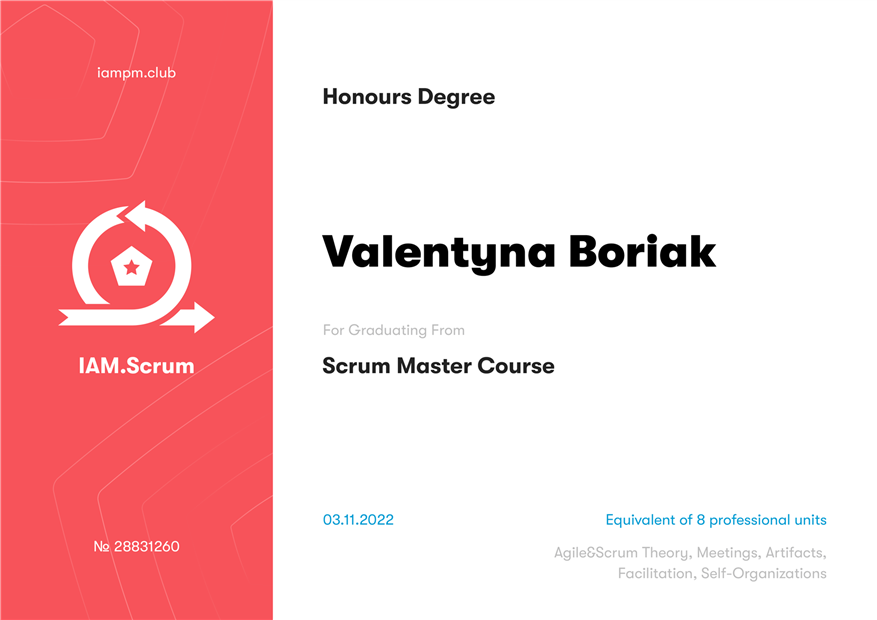
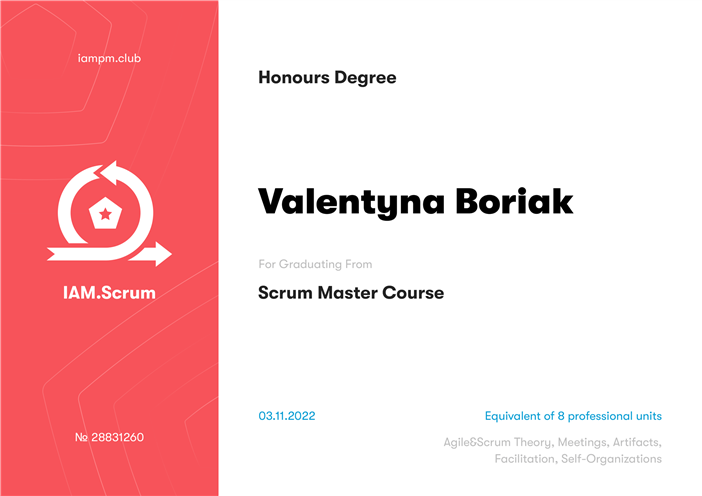
Fix certificates

diff --git a/css/styles.css b/css/styles.css
@@ -65,20 +65,25 @@ p {
   line-height: 1.5;
 }
 
+picture.certificate img {
+  margin: 2% auto auto 6%;
+}
+
+/*how to apply it without a special class for the 1st certificate?*/
+picture.certificate img.first-certificate {
+  margin-top: 0;
+}
+
 .skill-measurement-text {
   color: white;
   font-size: 1.3em;
   margin: 2% auto auto 6%;
 }
 
-picture {
-  margin-left: 5%;
-}
-
 .skill-measurement-85 {
   width: 15em;
   height: 1.2em;
-  background: linear-gradient(to right, #639a88 0 85%, #d9dbf1 85% 100%);
+  background: linear-gradient(to right, #639a88 0 85%, #ffffff 85% 100%);
   margin-left: 6%;
   margin-top: 0.7%;
 }
@@ -86,7 +91,7 @@ picture {
 .skill-measurement-70 {
   width: 15em;
   height: 1.2em;
-  background: linear-gradient(to right, #639a88 0 70%, #d9dbf1 70% 100%);
+  background: linear-gradient(to right, #639a88 0 70%, #ffffff 70% 100%);
   margin-left: 6%;
   margin-top: 0.7%;
 }
@@ -94,7 +99,7 @@ picture {
 .skill-measurement-50 {
   width: 15em;
   height: 1.2em;
-  background: linear-gradient(to right, #639a88 0 50%, #d9dbf1 50% 100%);
+  background: linear-gradient(to right, #639a88 0 50%, #ffffff 50% 100%);
   margin-left: 6%;
   margin-top: 0.7%;
 }
@@ -102,7 +107,7 @@ picture {
 .skill-measurement-30 {
   width: 15em;
   height: 1.2em;
-  background: linear-gradient(to right, #639a88 0 30%, #d9dbf1 30% 100%);
+  background: linear-gradient(to right, #639a88 0 30%, #ffffff 30% 100%);
   margin-left: 6%;
   margin-top: 0.7%;
 }

diff --git a/index.html b/index.html
@@ -90,7 +90,7 @@
       </section>
       <section id="certificates">
         <h2>Certificates</h2>
-        <picture id="jira-certificate">
+        <picture id="jira-certificate" class="certificate">
           <source
             media="(min-width:800px)"
             srcset="./images/jira-start-certificate-m.png"
@@ -98,10 +98,11 @@
           <img
             src="./images/jira-start-certificate-s.png"
             alt="IAMPM: Jira start course certificate"
+            class="first-certificate"
           />
         </picture>
         <br />
-        <picture id="scrum-certificate">
+        <picture id="scrum-certificate" class="certificate">
           <source
             media="(min-width:800px)"
             srcset="./images/iam-scrum-certificate-m.png"
@@ -111,7 +112,8 @@
             alt="honour's degree certificate; IAMPM: Scrum Master course"
           />
         </picture>
-        <picture id="marathon-certificate">
+        <br />
+        <picture id="marathon-certificate" class="certificate">
           <source
             media="(min-width:800px)"
             srcset="./images/qa-marathon-certificate-m.png"
